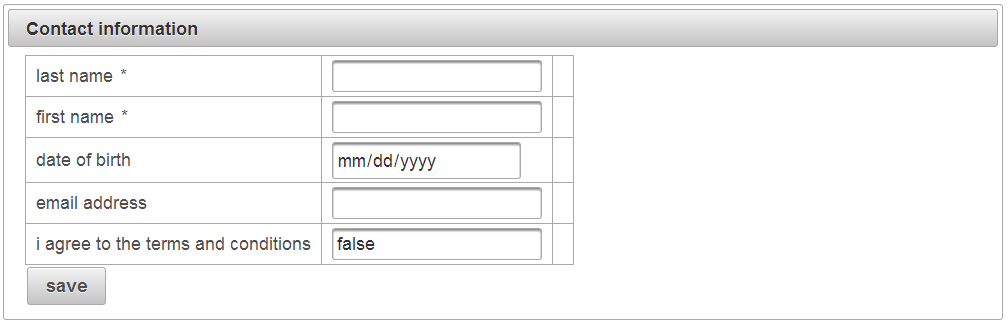
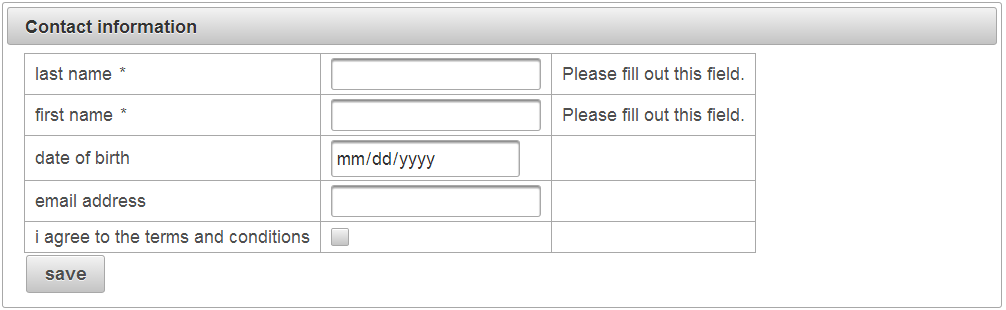
improved the interationalization example

Changed region(s): [[0.0, 0.0, 1.0, 1.0], [0.5547, 0.3484, 0.7396, 0.4065], [0.5547, 0.2032, 0.7396, 0.2613]]

diff --git a/AngularFaces.com/WebContent/tutorial/step_02/index.html b/AngularFaces.com/WebContent/tutorial/step_02/index.html
@@ -86,7 +86,7 @@
 					<prime:inputText value="#{customer.firstName}" />
 					<prime:inputText value="#{customer.dateOfBirth}" />
 					<prime:inputText value="#{customer.emailAddress}" />
-					<prime:inputText value="#{customer.IAgreeToTheTermsAndConditions}" />
+					<prime:selectBooleanCheckbox value="#{customer.IAgreeToTheTermsAndConditions}" />
 				</prime:panelGrid>
 				<prime:commandButton value="save" update="angular" action="#{customer.save}" />
 			</prime:panel>
@@ -144,6 +144,7 @@ save=Speichern]]></script>
 					Now, that's the nice part of AngularFaces: you don't have to do anything to make your JSF files multiligual. Adding the language files and
 					configuring the faces-config.xml is all you have to do to make the contact form look like this:<p>
 					<img src="carshop_german.png" />
+					<img src="carshop_spanish.png" />
 					
 					<p>Which language is rendered depends on the locale setting of the users browsers. Putting it in a nutshell, every customer of yours' will see
 					the JSF page in their language.</p>
